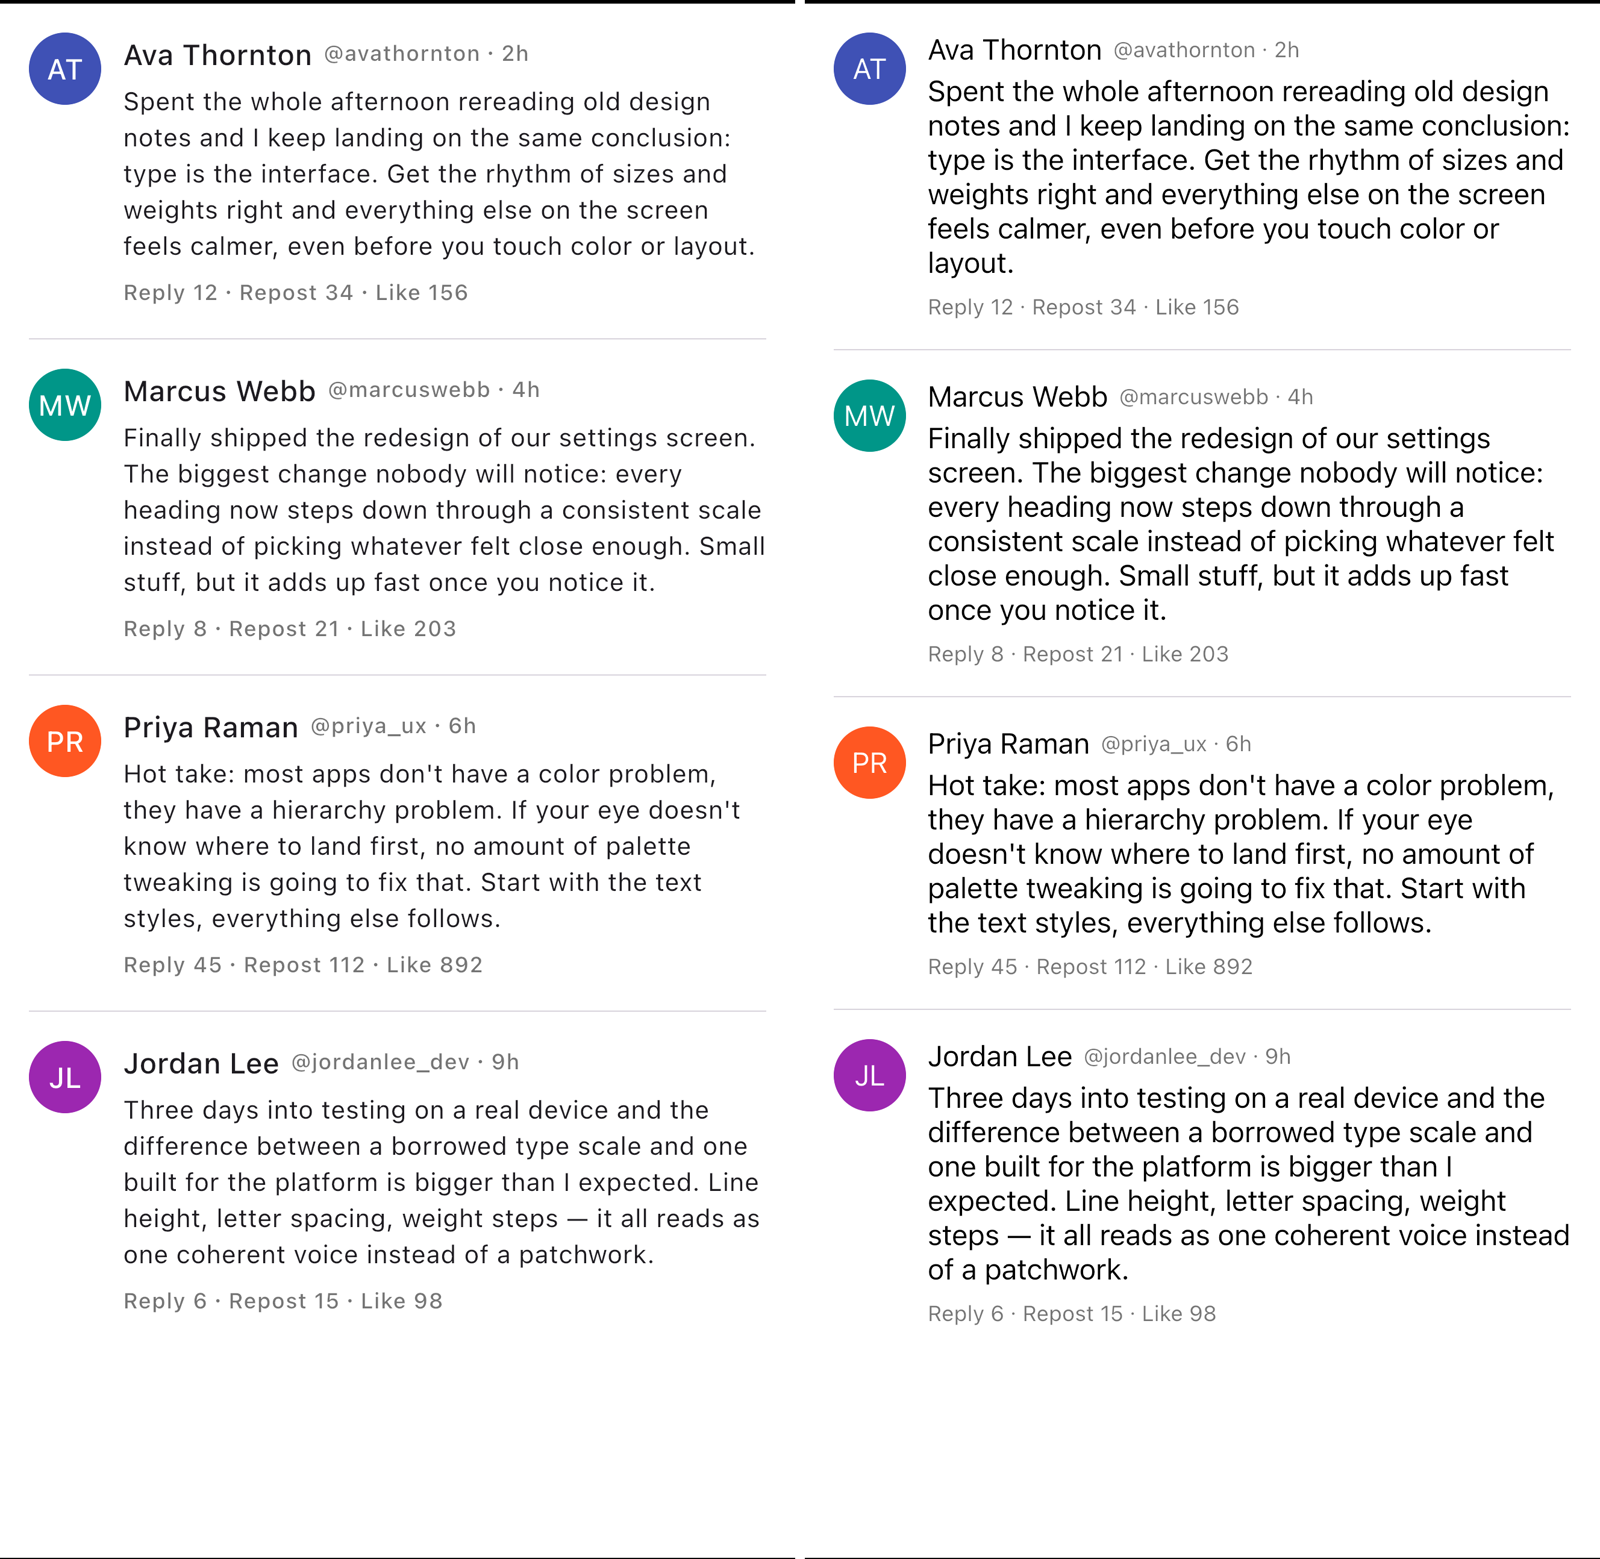
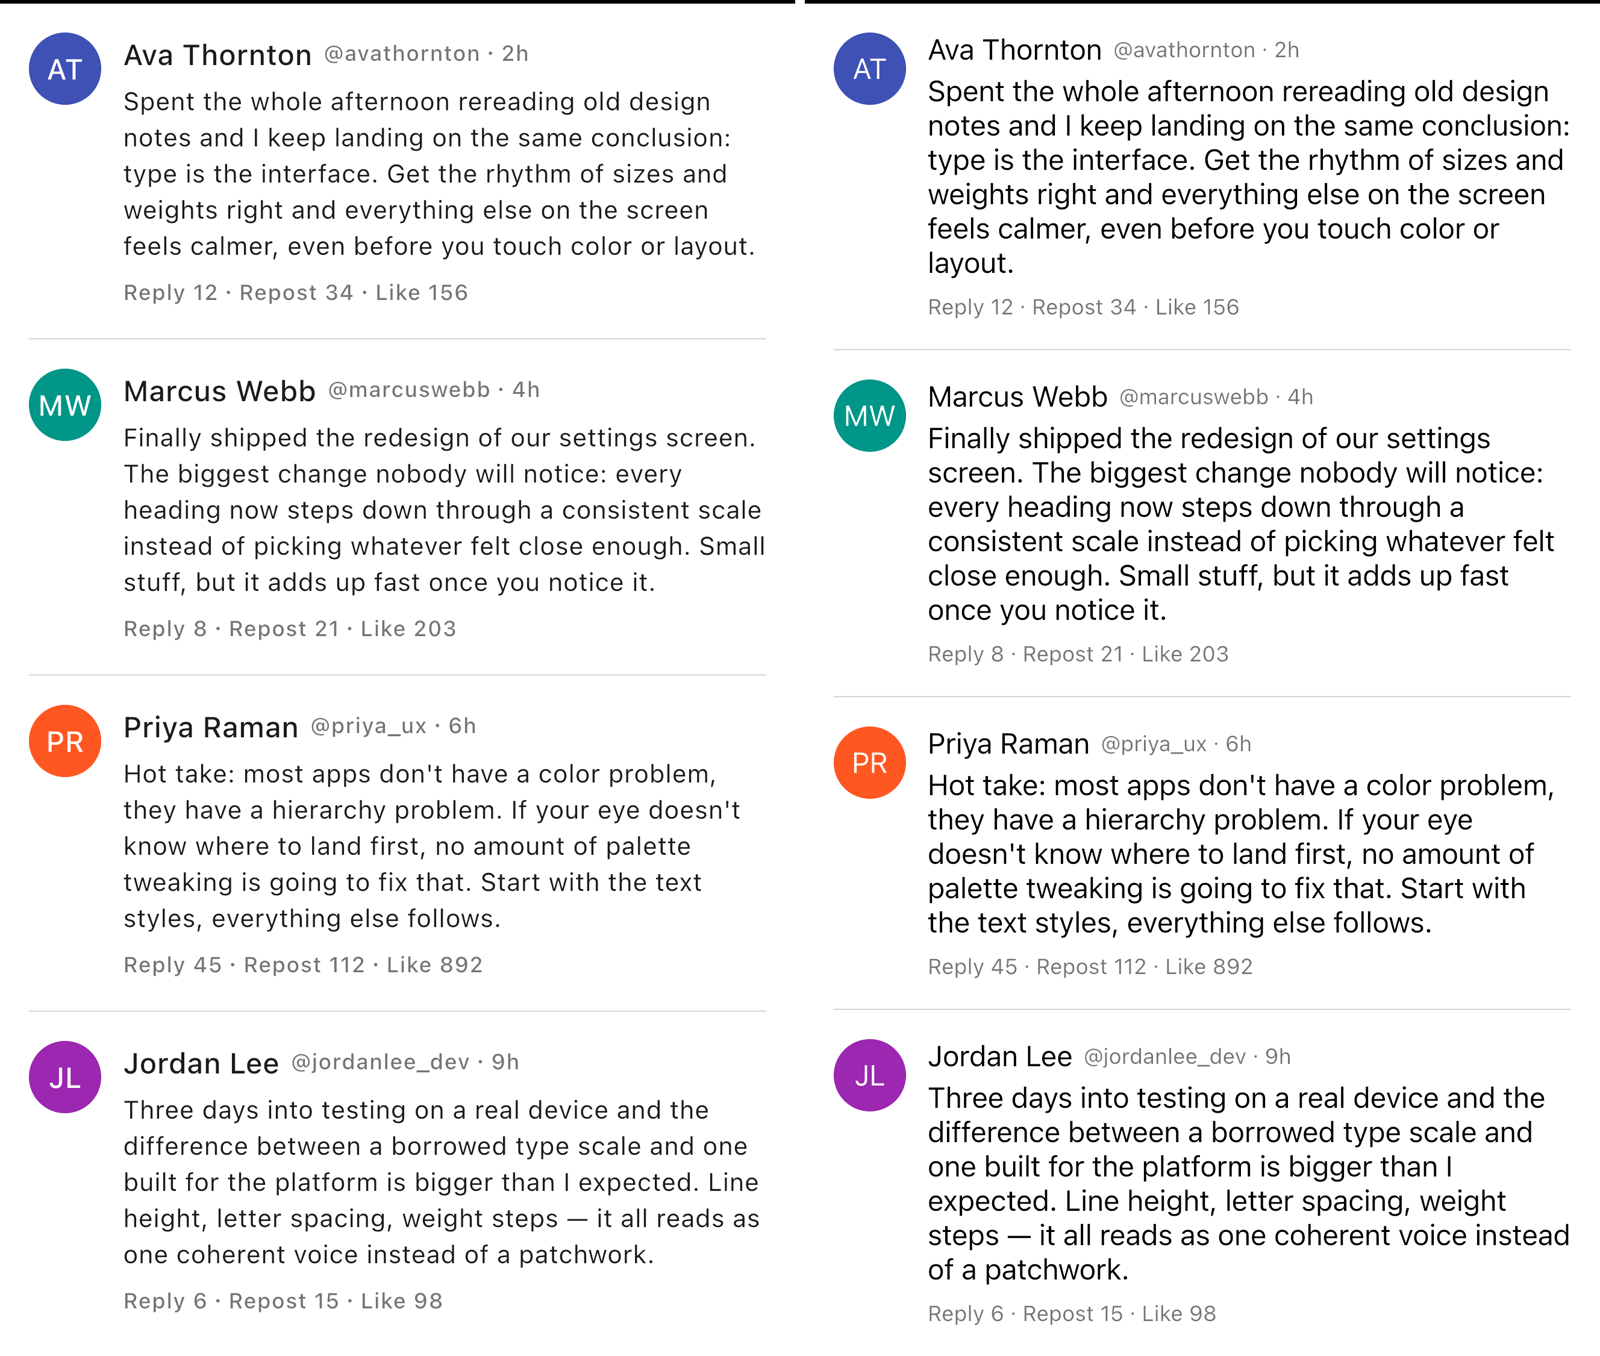
docs: trim screenshot whitespace, add pub.dev badge to READMEs

Changed region(s): [[0.0, 0.0, 1.0, 1.0], [0.0, 0.0, 0.4688, 0.9602]]

diff --git a/README.ja.md b/README.ja.md
@@ -2,6 +2,8 @@
 
 *English version: [README.md](README.md)*
 
+[![pub package](https://img.shields.io/pub/v/cupertino_typography.svg)](https://pub.dev/packages/cupertino_typography)
+
 Apple Human Interface Guidelines (HIG) が定義する iOS の Text Style カタログを、
 Flutter の `TextStyle` としてそのまま使えるようにするパッケージです。HIG の 11
 スタイルすべて(および各スタイルの強調バリアント)を static 定数として提供する

diff --git a/README.md b/README.md
@@ -2,6 +2,8 @@
 
 *日本語版: [README.ja.md](README.ja.md)*
 
+[![pub package](https://img.shields.io/pub/v/cupertino_typography.svg)](https://pub.dev/packages/cupertino_typography)
+
 A package that exposes Apple's Human Interface Guidelines (HIG) iOS Text
 Style catalog directly as Flutter `TextStyle`s. It provides all 11 HIG
 styles (plus an emphasized variant of each) as static constants, along
